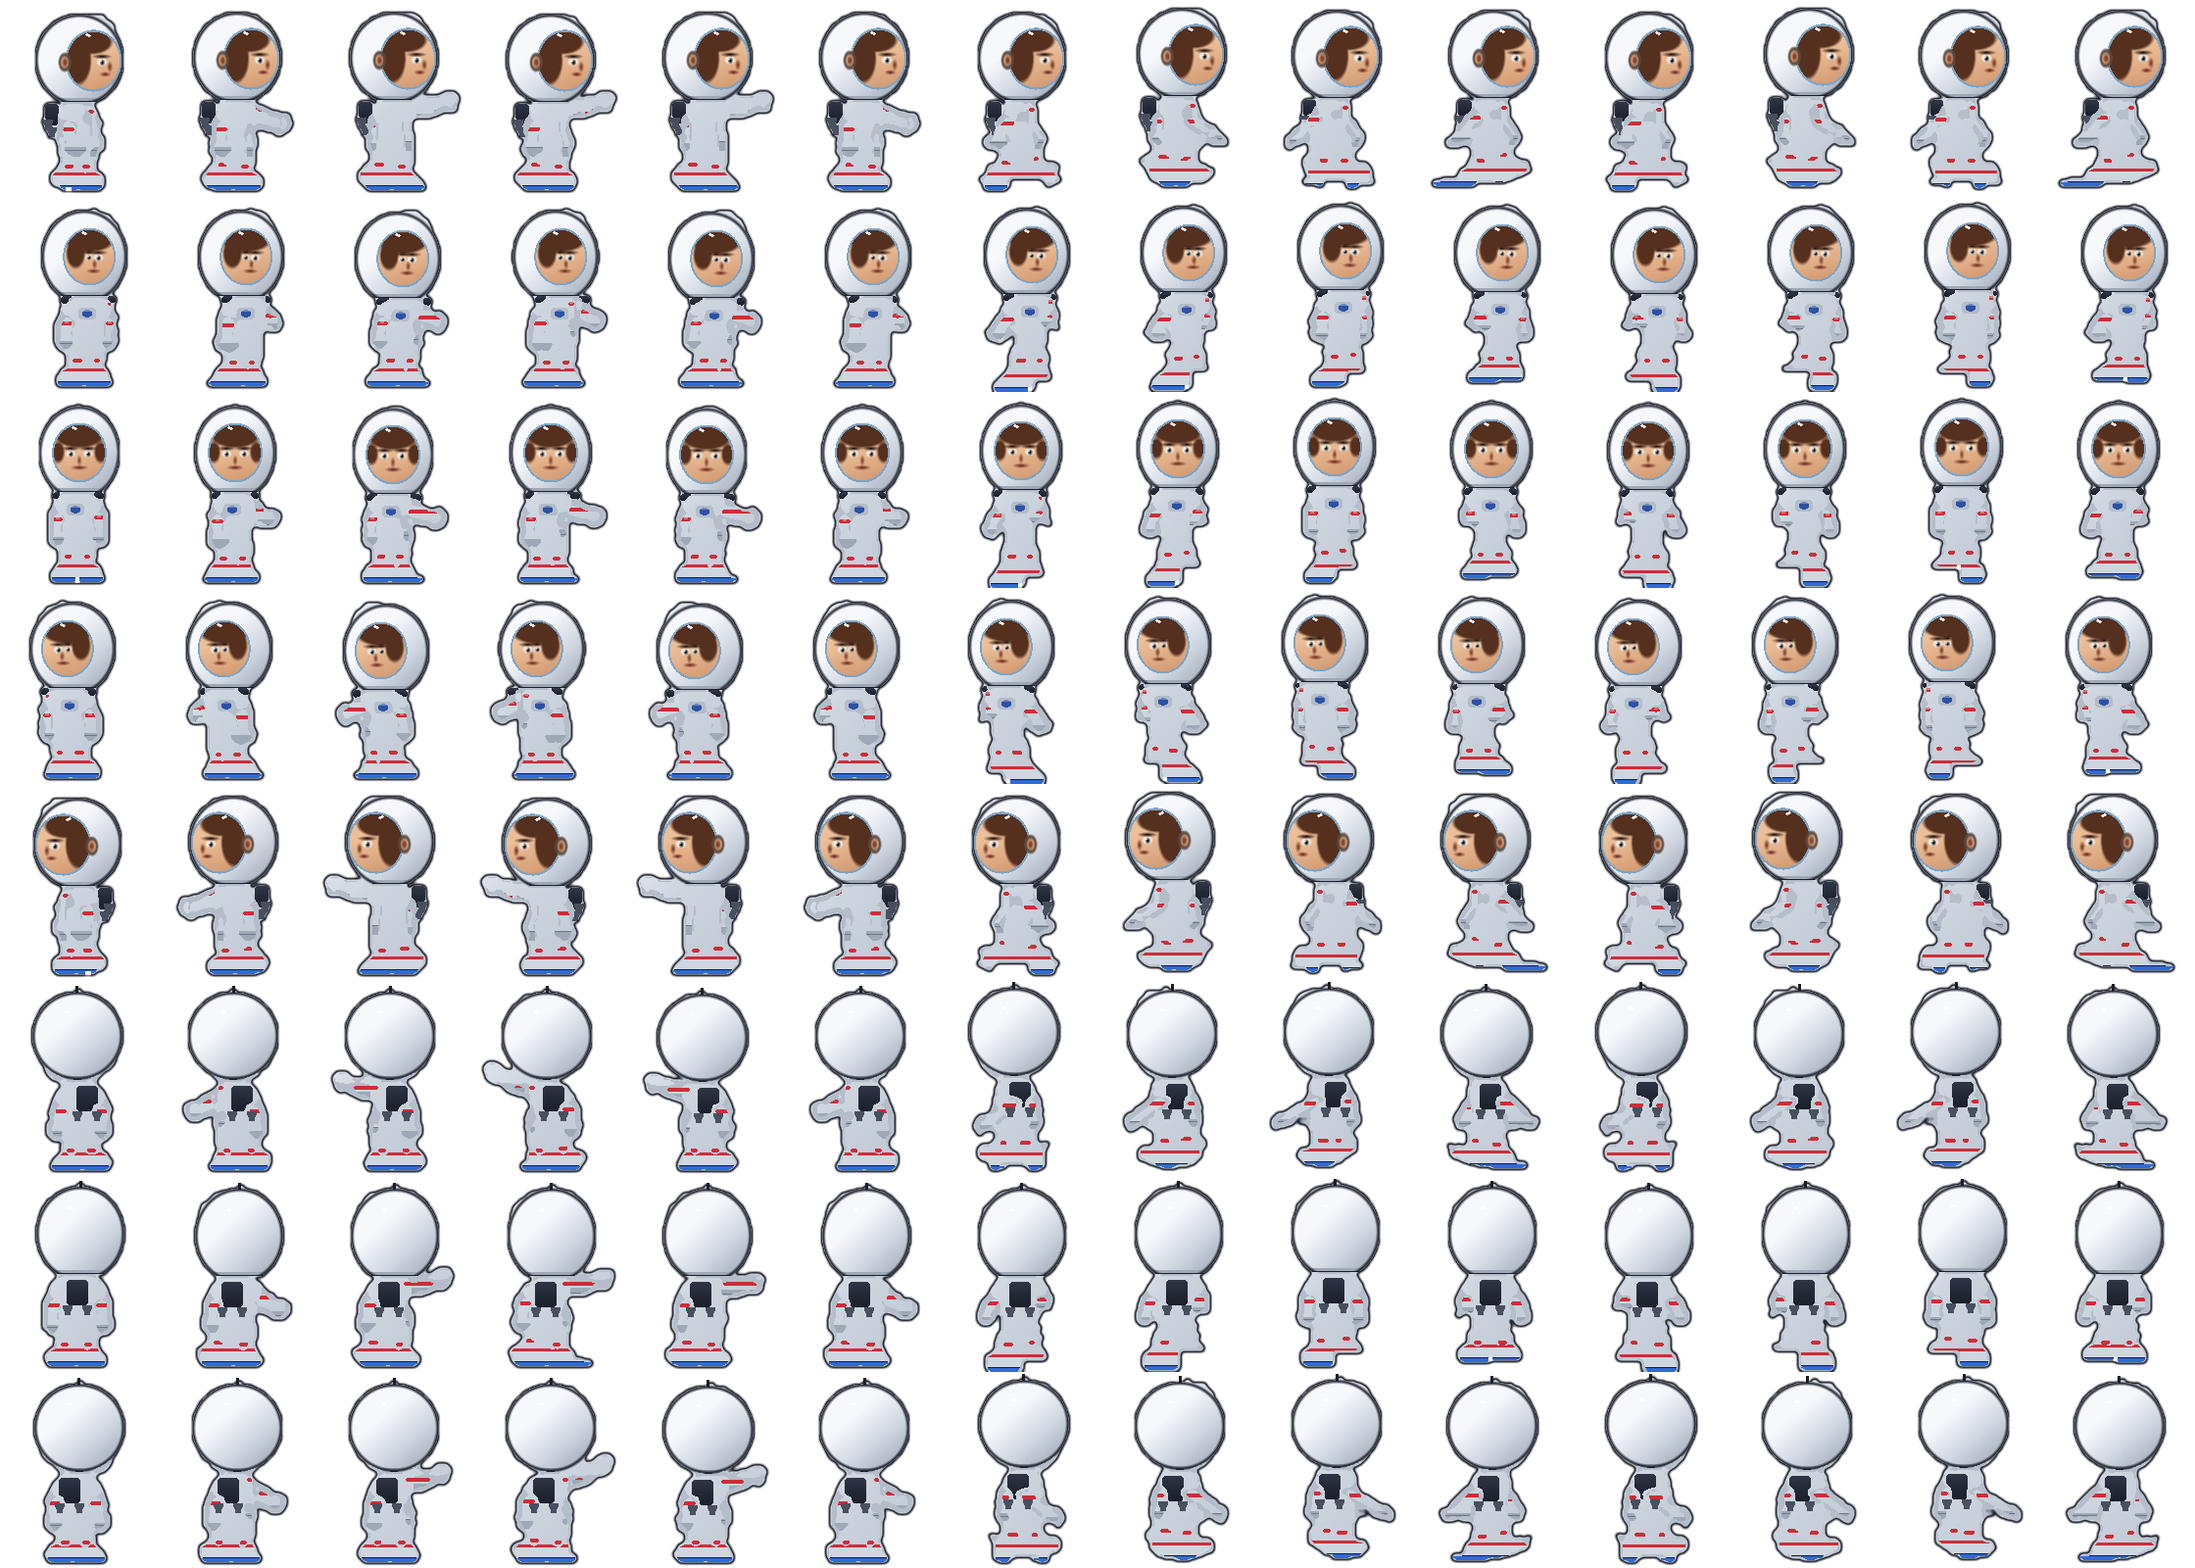
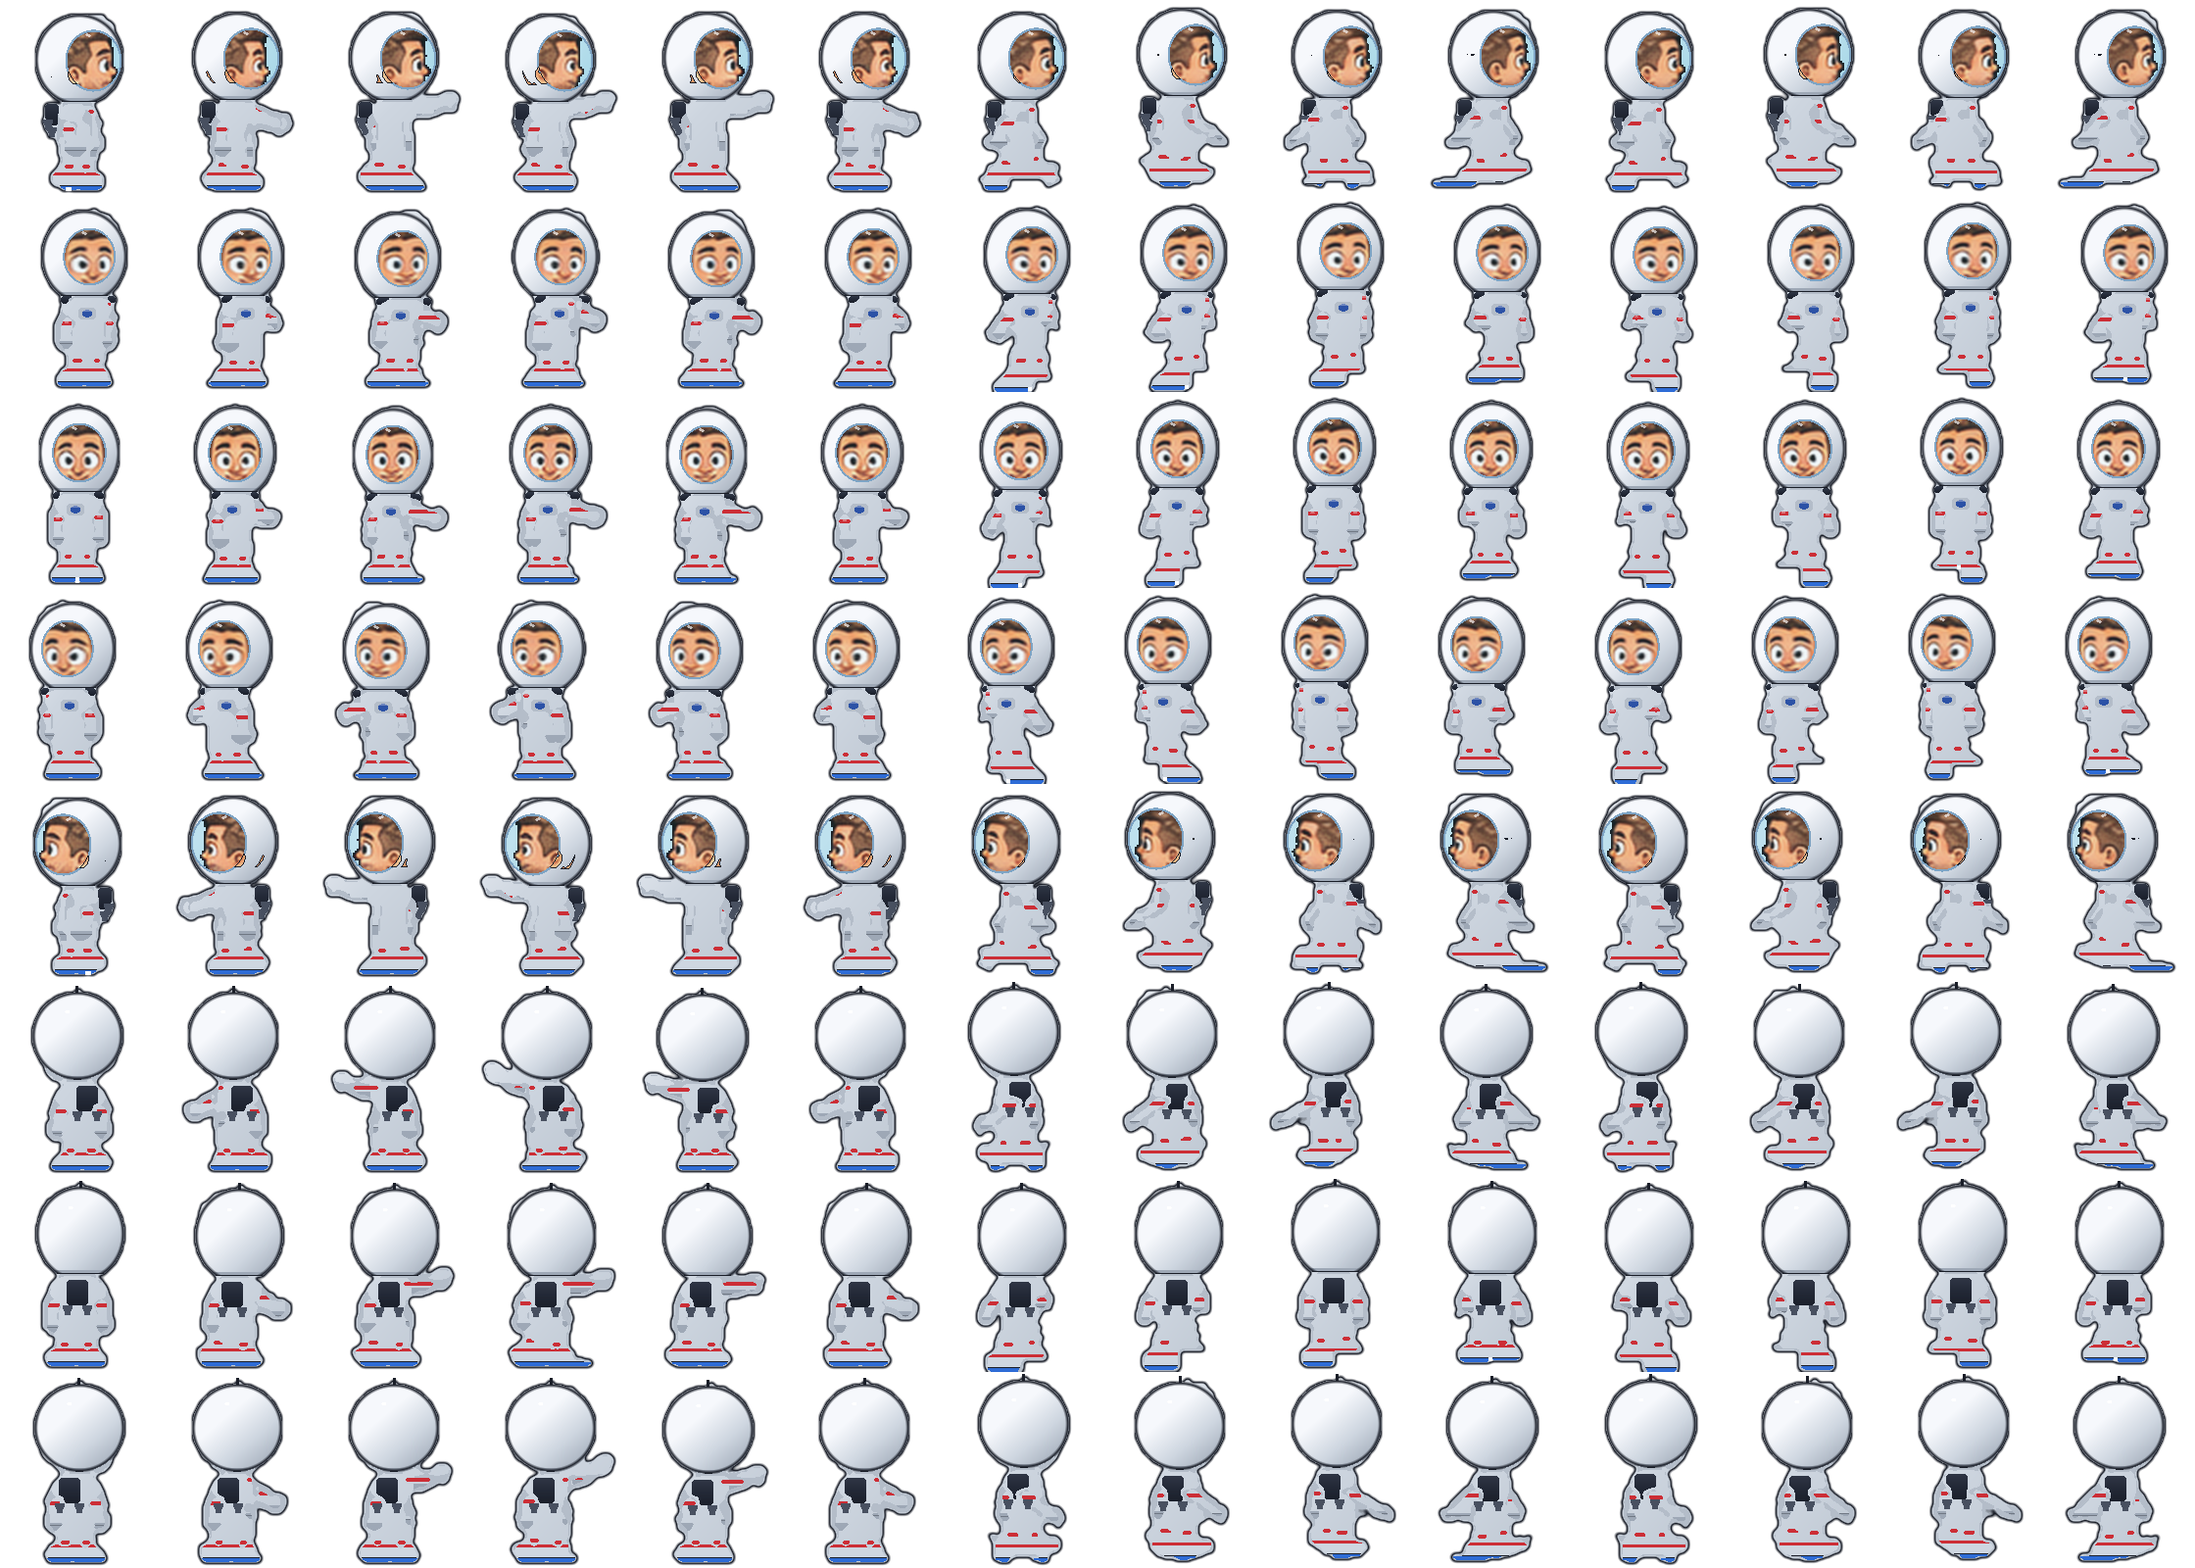
Put James's own face in the visor and slow the moon hop.
The visor is the base James head, upscaled, with a light blue glass tint. Walk plays at 3 fps and run at 4 fps, with a taller float that hangs and settles while ground speed stays the same.

diff --git a/phaser-tag-client/src/kid.ts b/phaser-tag-client/src/kid.ts
@@ -28,8 +28,8 @@ export { directionFromAngle } from "./tagging";
  * Spaceman James (`kid_spaceman.png` plus `kid_spaceman_b.png`, from
  * tools/make_spaceman_skin.py) is drawn at 2× and shown at 1/2 scale with
  * linear filtering. The sheet is split so each texture stays under 4096px.
- * Walk and run add a cosmetic low-gravity hop, and holding run lights the
- * boosters (see `syncSpaceman`).
+ * Walk and run are slow (3 fps and 4 fps) and add a tall cosmetic
+ * low-gravity hop. Holding run lights the boosters (see `syncSpaceman`).
  * Animation keys are `<texture>-<anim>-<dir>`, e.g. `kid_banana-walk-SE`.
  */
 const FRAME_W = 80;
@@ -188,10 +188,6 @@ const FLAME_FWD: Record<Direction, [number, number]> = {
 };
 
 /**
- * Ease-in/out bound with a float at the top. `hang` (0..1) lengthens the
- * time spent near the apex; the ends stay soft so he doesn't pop off the ground.
- */
-/**
  * 0..1 phase through one bound, moving continuously while a frame is held.
  * `getProgress()` sits still until the next sprite frame, so a hop built
  * from it pops. The accumulator is how far the current frame has played.
@@ -206,12 +202,24 @@ function stridePhase(anims: Phaser.Animations.AnimationState): number {
   return (((index + into) / total) * 2) % 1;
 }
 
+/**
+ * Ease-in/out bound with a long hang at the top. `hang` (0..1) lengthens
+ * the time spent near the apex. The rise is the short half and the descent
+ * is the long half, so the hop settles instead of dropping.
+ */
 function moonArc(phase: number, hang: number): number {
-  const lobe = Math.sin(Math.PI * phase);
+  // Rise through the first part of the bound and take the rest to come
+  // down, so the descent is the long, gentle half of a low-gravity hop.
+  const t = phase < 0.36 ? (phase / 0.36) * 0.5 : 0.5 + ((phase - 0.36) / 0.64) * 0.5;
+  const lobe = Math.sin(Math.PI * t);
   const eased = lobe * lobe * (3 - 2 * lobe);
   const lifted = 1 - (1 - eased) * (1 - eased);
   return eased * (1 - hang) + lifted * hang;
 }
+
+/** World-pixel height of the cosmetic hop. The feet still cross the ground at the normal speed. */
+const MOON_WALK_HOP = 28;
+const MOON_RUN_HOP = 46;
 
 /**
  * Exhaust leaves the nozzles downward, with a smaller backward component.
@@ -250,8 +258,10 @@ function createSkinAnimations(scene: Phaser.Scene, sheet: SkinSheet) {
 
     // Spaceman's stride is the same poses, held longer, so the moon hop
     // has time to float. Other skins keep the shared rates.
-    const walkFps = sheet.id === "spaceman" ? 6 : WALK_FPS;
-    const runFps = sheet.id === "spaceman" ? 8 : RUN_FPS;
+    // A full 8-frame cycle at 3 fps is about 2.7s, so each bound (half a
+    // cycle) lasts ~1.3s. Run is a little quicker and still a slow float.
+    const walkFps = sheet.id === "spaceman" ? 3 : WALK_FPS;
+    const runFps = sheet.id === "spaceman" ? 4 : RUN_FPS;
     add({ key: animKey("walk", dir), frames: range("walk"), frameRate: walkFps, repeat: -1 });
     add({ key: animKey("run", dir), frames: range("run"), frameRate: runFps, repeat: -1 });
     add({ key: animKey("breathe", dir), frames: range("breathe"), frameRate: 3, repeat: -1 });
@@ -595,16 +605,16 @@ export class KidAvatar {
       // changes when the frame changes, which made the hop step.
       const phase = stridePhase(this.sprite.anims);
       const running = this.running;
-      this.hop = (running ? 20 : 10) * moonArc(phase, running ? 0.78 : 0.6);
+      this.hop = (running ? MOON_RUN_HOP : MOON_WALK_HOP) * moonArc(phase, running ? 0.84 : 0.74);
     } else {
-      this.hop *= Math.exp(-dt / 90);
+      this.hop *= Math.exp(-dt / 120);
       if (this.hop < 0.05) this.hop = 0;
     }
     // Soft landing: a brief knee compress as the hop comes back to the ground.
-    if (airborne && this.prevHop > 2.2 && this.hop < this.prevHop && this.hop < 2.2) {
-      this.squash = 0.94;
+    if (airborne && this.prevHop > 6 && this.hop < this.prevHop && this.hop < 6) {
+      this.squash = 0.93;
     }
-    this.squash += (1 - this.squash) * (1 - Math.exp(-dt / 150));
+    this.squash += (1 - this.squash) * (1 - Math.exp(-dt / 200));
     if (this.squash > 0.995) this.squash = 1;
     if (this.skin === "spaceman") {
       const draw = this.drawScale;
@@ -614,7 +624,7 @@ export class KidAvatar {
     if (this.skin === "spaceman" && this.running) this.flame = Math.min(1, this.flame + dt / 1500);
     else this.flame = Math.max(0, this.flame - dt / 480);
     // The ring stays under the feet and reads smaller when he's higher.
-    this.shadow.setScale(this.skin === "spaceman" ? 1 - 0.22 * (this.hop / 20) : 1);
+    this.shadow.setScale(this.skin === "spaceman" ? 1 - 0.3 * (this.hop / MOON_RUN_HOP) : 1);
   }
 
   /** Blue exhaust from the backpack nozzles. Hidden when the flame has faded. */

diff --git a/phaser-tag-client/src/style.css b/phaser-tag-client/src/style.css
@@ -1546,6 +1546,7 @@ html[dir="rtl"] .settings-title {
   image-rendering: auto;
   background-size: calc(var(--fw) * var(--draw) * 16px) calc(var(--fh) * var(--draw) * 8px);
 }
+.skin-card[data-skin="spaceman"].picked .skin-preview { animation-duration: 2.6s; }
 .skin-stage {
   position: relative;
   display: block;

diff --git a/phaser-tag-client/tools/make_spaceman_skin.py b/phaser-tag-client/tools/make_spaceman_skin.py
@@ -1726,7 +1726,9 @@ def render_hd(base: np.ndarray, painted: np.ndarray, lab: np.ndarray, direction:
             glass = _shade(glass_light, _mix(GLASS, HI, 0.28), GLASS, _mix(GLASS, RIM, 0.35))
             img[visor, :3] = glass[visor]
             _paint_rgb(img, glass_ring, RIM)
-            _paint_clean_face(img, inner, direction, fcx, fcy, frx, fry, H, W, dome)
+            _composite_james_face(
+                img, base, inner, direction, fcx, fcy, frx, fry, H, W, dome, cx, rx,
+            )
         else:
             # Short rounded antenna and a small crown highlight.
             rows = np.nonzero(dome.any(axis=1))[0]
@@ -1781,87 +1783,54 @@ def render_hd(base: np.ndarray, painted: np.ndarray, lab: np.ndarray, direction:
     return img
 
 
-def _paint_clean_face(img, inner, direction, fcx, fcy, frx, fry, H, W, dome) -> None:
-    """Hair, brows, eyes, a small nose, a mouth, and a profile ear.
+def _composite_james_face(img, base, inner, direction, fcx, fcy, frx, fry, H, W, dome, cx, rx) -> None:
+    """James's own head, upscaled into the visor.
 
-    Drawn in the visor, not fitted to the 1× color masks. A tall shade
-    column from that mask became a giant nose, and a vertical hair cut
-    filled half the side visor.
+    The pixels come from this frame of the base kid sheet (the same face
+    the other skins start from): hair, brows, eyes, beard, and the profile
+    ear. Lanczos plus a light blur knocks the dither down without redrawing
+    the features. A little blue glass sits on top.
     """
-    if direction in BACK or int(inner.sum()) < 8:
+    if direction in BACK or int(np.count_nonzero(inner)) < 8:
         return
-    yy, xx = np.mgrid[0:H, 0:W]
-    u = (xx - fcx) / max(float(frx), 1.0)
-    v = (yy - fcy) / max(float(fry), 1.0)
-    skin_light = np.clip(0.9 - u * 0.10 - v * 0.36, 0.0, 1.0)
-    skin = _shade(
-        skin_light,
-        _mix(FACE_LIGHT, GLASS, 0.05),
-        _mix(FACE_MID, GLASS, 0.04),
-        _mix(FACE_SHADE, GLASS, 0.04),
+    rgb = base[..., :3].copy()
+    opaque = base[..., 3] > 40
+    # Color the empty margin so the resize does not pull black into the cheek.
+    for _ in range(3):
+        blur = np.asarray(Image.fromarray(rgb).filter(ImageFilter.GaussianBlur(1.15)))
+        rgb = rgb.copy()
+        rgb[~opaque] = blur[~opaque]
+        opaque = dilate(opaque, 1)
+    up = np.asarray(Image.fromarray(rgb).resize((W, H), Image.Resampling.LANCZOS)).astype(np.float32)
+    soft = np.asarray(Image.fromarray(np.clip(up, 0, 255).astype(np.uint8)).filter(ImageFilter.GaussianBlur(0.55)))
+    up = up * 0.62 + soft.astype(np.float32) * 0.38
+    a_up = np.asarray(
+        Image.fromarray(base[..., 3]).resize((W, H), Image.Resampling.LANCZOS)
     )
-    img[inner, :3] = skin[inner]
+    glass = np.array(GLASS, np.float32)
+    tint = 0.14
+    mixed = np.clip(up * (1.0 - tint) + glass * tint, 0, 255)
+    show = inner & (a_up > 110)
+    img[show, :3] = mixed[show].astype(np.uint8)
 
-    def disc(cu: float, cv: float, ru: float, rv: float, min_rx: float = 0.8, min_ry: float = 0.7) -> np.ndarray:
-        return _ell_cov(
-            xx, yy,
-            fcx + cu * frx, fcy + cv * fry,
-            max(min_rx, ru * frx), max(min_ry, rv * fry),
-        )
-
-    def on_glass(cov: np.ndarray) -> np.ndarray:
-        return np.where(inner, cov, 0.0).astype(np.float32)
-
-    def eye(cu: float, cv: float, scale: float = 1.0) -> None:
-        _blend(img, on_glass(disc(cu, cv, 0.155 * scale, 0.112 * scale, 3.0, 2.2)), FACE_EYE)
-        _blend(img, on_glass(disc(cu + 0.012 * scale, cv + 0.018 * scale, 0.062 * scale, 0.068 * scale, 1.7, 1.7)), FACE_PUPIL)
-        _blend(img, on_glass(disc(cu - 0.04 * scale, cv - 0.028 * scale, 0.028 * scale, 0.022 * scale, 0.7, 0.6)), GLINT)
-        _blend(img, on_glass(disc(cu, cv - 0.175, 0.19 * scale, 0.045, 2.4, 1.35)), FACE_BROW)
-
+    # Profile ear: the light skin bulge on the back of the head, outside the
+    # glass, so the helmet does not swallow it.
     if direction in ("E", "W"):
         sign = 1.0 if direction == "E" else -1.0
-        # Back of the head, curved into the cheek. Not a vertical half.
-        _blend(img, on_glass(disc(-sign * 0.55, -0.02, 0.46, 0.78)), FACE_HAIR)
-        _blend(img, on_glass(disc(-sign * 0.06, -0.60, 0.70, 0.38)), FACE_HAIR)
-        eye(sign * 0.30, 0.04, 1.05)
-        _blend(img, on_glass(disc(sign * 0.58, 0.20, 0.065, 0.12, 1.45, 2.1)), FACE_SHADE)
-        _blend(img, on_glass(disc(sign * 0.42, 0.44, 0.12, 0.05, 2.4, 1.25)), FACE_MOUTH)
-        # Ear on the back of the shell so the profile reads, attached to the helmet.
-        ear_cx = fcx - sign * frx * 1.02
-        ear_cy = fcy + fry * 0.05
-        ear_rx = max(3.6, frx * 0.20)
-        ear_ry = max(4.8, fry * 0.28)
-        ear = _ell_cov(xx, yy, ear_cx, ear_cy, ear_rx, ear_ry)
-        ear = np.where(dilate(dome, 2), ear, 0.0).astype(np.float32)
-        bowl = _ell_cov(
-            xx, yy,
-            ear_cx + sign * ear_rx * 0.06, ear_cy + ear_ry * 0.02,
-            ear_rx * 0.42, ear_ry * 0.46,
-        )
-        img[..., 3] = np.maximum(img[..., 3], np.clip(ear * 255.0, 0, 255).astype(np.uint8))
-        _blend(img, ear, _mix(FACE_LIGHT, FACE_MID, 0.35))
-        _blend(img, np.clip(ear * bowl, 0, 1), FACE_SHADE)
-        rim = np.clip(ear - _ell_cov(xx, yy, ear_cx, ear_cy, ear_rx * 0.72, ear_ry * 0.72), 0, 1)
-        _blend(img, rim, OUTLINE)
-    elif direction in ("SE", "SW"):
-        sign = 1.0 if direction == "SE" else -1.0
-        _blend(img, on_glass(disc(0.0, -0.58, 0.90, 0.40)), FACE_HAIR)
-        _blend(img, on_glass(disc(-sign * 0.52, -0.12, 0.34, 0.50)), FACE_HAIR)
-        eye(-sign * 0.02, 0.02, 0.78)
-        eye(sign * 0.34, 0.03, 1.02)
-        _blend(img, on_glass(disc(sign * 0.20, 0.26, 0.06, 0.11, 1.4, 2.0)), FACE_SHADE)
-        _blend(img, on_glass(disc(sign * 0.16, 0.50, 0.16, 0.05, 2.6, 1.25)), FACE_MOUTH)
-    else:
-        _blend(img, on_glass(disc(0.0, -0.58, 0.88, 0.40)), FACE_HAIR)
-        _blend(img, on_glass(disc(-0.78, -0.02, 0.22, 0.34)), FACE_HAIR)
-        _blend(img, on_glass(disc(0.78, -0.02, 0.22, 0.34)), FACE_HAIR)
-        eye(-0.32, 0.03, 1.0)
-        eye(0.32, 0.03, 1.0)
-        _blend(img, on_glass(disc(0.0, 0.26, 0.055, 0.11, 1.35, 2.0)), FACE_SHADE)
-        _blend(img, on_glass(disc(0.0, 0.50, 0.18, 0.05, 3.0, 1.3)), FACE_MOUTH)
+        yy, xx = np.mgrid[0:H, 0:W]
+        back = (cx - xx) * sign > rx * 0.02
+        band = (yy > fcy - fry * 0.08) & (yy < fcy + fry * 0.78)
+        rch, gch, bch = up[..., 0], up[..., 1], up[..., 2]
+        skin = (rch > 165) & (rch > bch + 18) & (gch > 90) & (a_up > 140)
+        ear = skin & back & band & dilate(dome, 2) & ~show
+        if ear.any():
+            img[ear, 3] = 255
+            img[ear, :3] = mixed[ear].astype(np.uint8)
+            rim = ear & ~erode(ear, 1)
+            _paint_rgb(img, rim, OUTLINE)
 
     streak = _visor_streak(inner, direction, H, W)
-    _blend(img, np.where(streak, np.float32(0.92), np.float32(0)), GLINT)
+    _blend(img, np.where(streak, np.float32(0.65), np.float32(0)), GLINT)
 
 
 def _visor_streak(visor: np.ndarray, direction: str, H: int, W: int) -> np.ndarray:

diff --git a/phaser-tag-client/README.md b/phaser-tag-client/README.md
@@ -337,8 +337,9 @@ skin carries its own frame size and feet line. Animation keys are
   White suit with grey shading, a rounded helmet (James's face and hair show
   through the visor on front and side views; back views are the helmet),
   a chest panel, red and blue accent stripes, chunky gloves and boots, and
-  a backpack with two boosters. Walk and run add a cosmetic low-gravity hop
-  (the shadow stays on the ground). Holding run ramps blue booster flames
+  a backpack with two boosters. Walk and run play slowly (3 fps and 4 fps)
+  and add a tall cosmetic low-gravity hop (the shadow stays on the ground).
+  Holding run ramps blue booster flames
   over about a second and a half; that uses the existing `running` flag, so
   other players see it too. Footsteps are a soft radio beep (`spacemanStep`);
   the tag is a suit whoosh plus a short radio chirp (`spacemanSwing`). Re-run:
